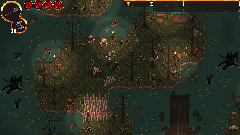
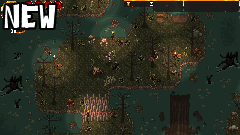
new images

Changed region(s): [[0.0, 0.0, 0.2625, 0.237]]

diff --git a/index.html b/index.html
@@ -91,10 +91,10 @@
 		<div id="media">
 			<iframe width="768" height="432" src="https://www.youtube.com/embed/Kl26pjRuY4A?showinfo=0&modestbranding=0" frameborder="0" encrypted-media" allowfullscreen></iframe>
 			<ul id="gallery">
-				<li>
+				<li id="rows">
 					<a id="screen_1" href="images/01.png" data-lightbox="images">
+						<!--<img id="new" src="images/new.png">-->
 						<img src="thumbs/01.png">
-						<img id="new" src="images/new.png">
 					</a>
 				</li>
 				<li>

diff --git a/css/style.css b/css/style.css
@@ -70,8 +70,14 @@ body
 
 #new
 {
-	margin: auto;
-	width: 100%;	
+	image-rendering: pixelated;
+	image-rendering: -moz-crisp-edges; 
+	position: relative;
+	left: -92px;
+	top: 78px;
+	z-index: 2;
+	transform: scaleX(.25) scaleY(.25); 
+	float: right;
 }
 
 #desc
